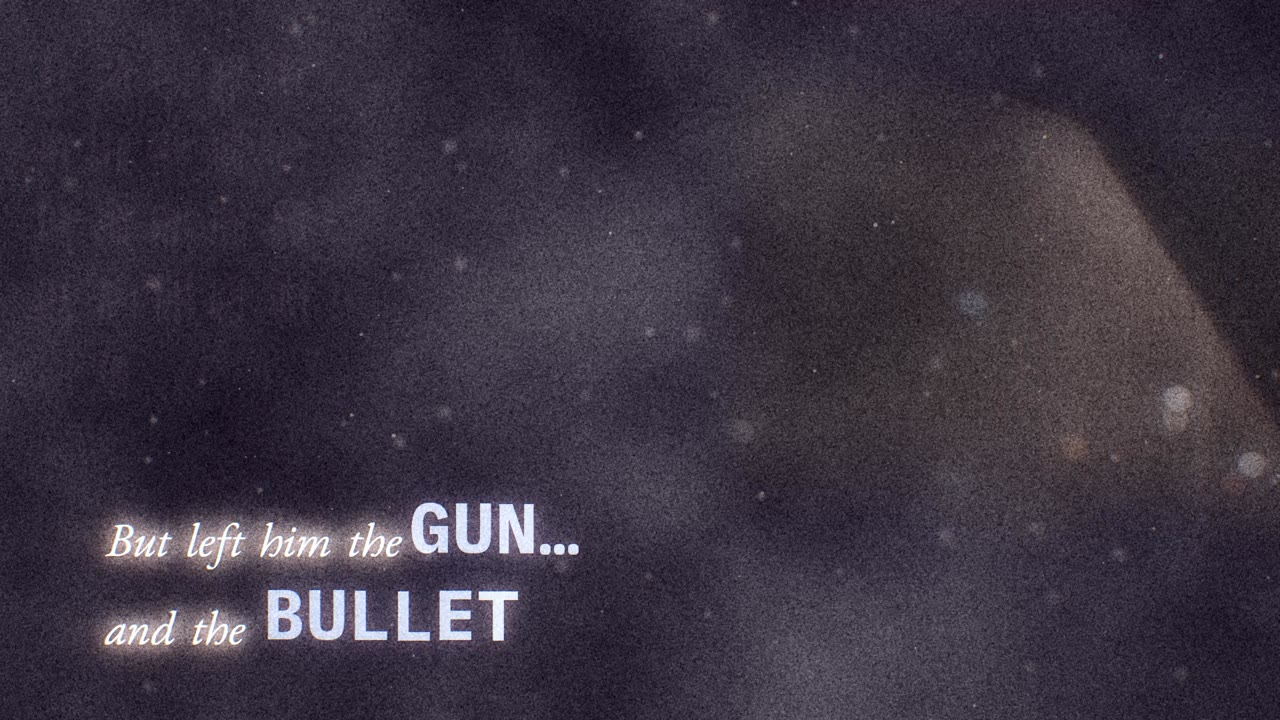
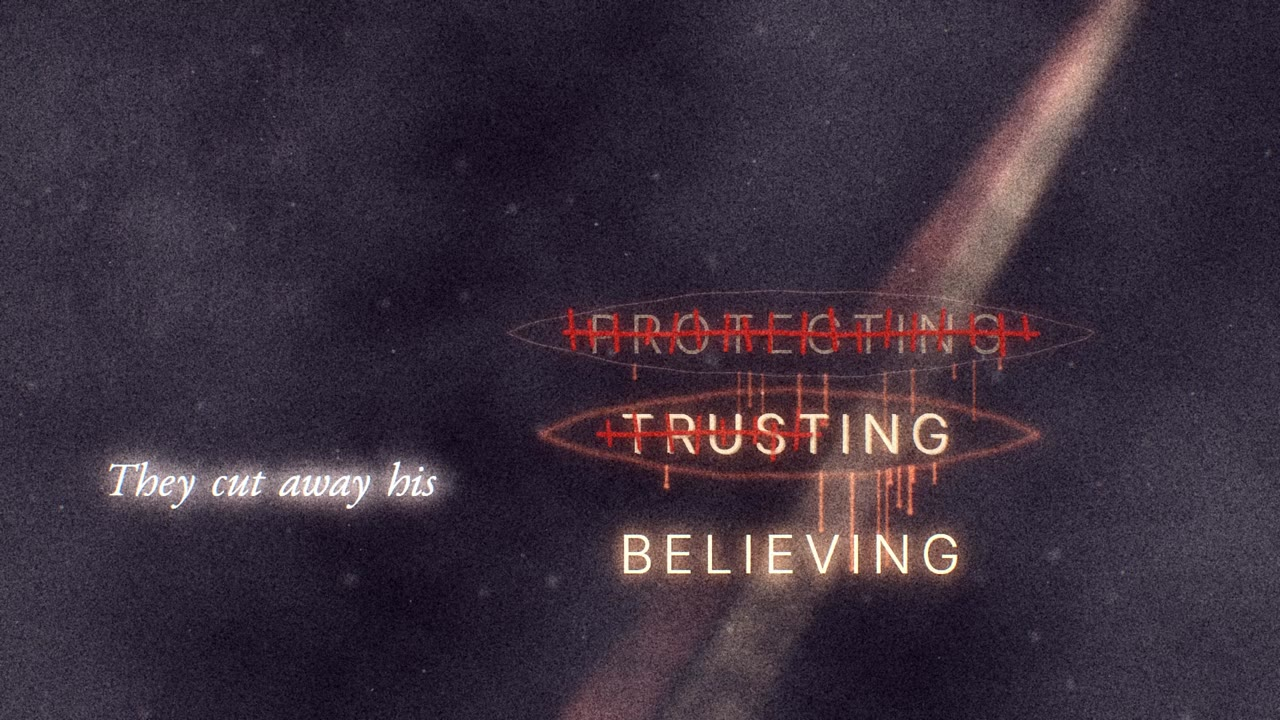
The Cutting: full render with the sewn-shut virtues and the still bullet on the storyboard
Claude-Session: https://claude.ai/code/session_013aPae8dR11r7xw8o95d9Yi

diff --git a/storyboard/index.html b/storyboard/index.html
@@ -144,21 +144,13 @@ ol.steps li::marker { font: 600 0.85rem var(--mono); color: var(--ink-2); }
   <section aria-labelledby="h-built">
     <div class="col"><span class="eyebrow">Built so far</span><h2 id="h-built">The film</h2></div>
     <div class="frames">
-<figure class="render" id="render-the_cutting_cuts">
-  <video controls playsinline preload="metadata" poster="renders/the_cutting_cuts_poster.jpg" width="1280" height="720">
-    <source src="renders/the_cutting_cuts.mp4" type="video/mp4">
-  </video>
-  <figcaption><b>The Cutting (chunk)</b>
-    <span class="tc">6:03.0 → 6:16.2 · bars 105–108</span>
-    <span class="note">Revised cuts: surgical, then sewn shut. On each &#x27;cut&#x27; a scalpel traces a surgeon&#x27;s ellipse round his word in a few frames (the frame jolts), and the incision opens: his light wells out of it, redder, and runs down in drips. The word trembles while it is worked on. When she sings it, the wound is sewn shut over it in thick red thread that sits on top of the word: a strike runs through it and short, uneven vertical stitches cross it as the thread passes, a strikeout and sutures at once (the coats&#x27; strike from White Coats III). His light chokes down under the stitches, the welling stops, and the shaft drains. The three sewn-shut virtues stay until &#x27;But left him the gun&#x27;. <a href="renders/the_cutting_cuts_contact.jpg">Contact sheet</a></span></figcaption>
-</figure>
 <figure class="render" id="render-the_cutting">
   <video controls playsinline preload="metadata" poster="renders/the_cutting_poster.jpg" width="1280" height="720">
     <source src="renders/the_cutting.mp4" type="video/mp4">
   </video>
   <figcaption><b>The Cutting</b>
     <span class="tc">6:04.6 → 6:36.6 · bars 106–115</span>
-    <span class="note">What they did to each of them, in her words. Out of the coats&#x27; white his three shafts pour back, with PROTECTING, TRUSTING and BELIEVING still lit where he set them in Spoken I (a memory of his offer). Each &#x27;cut&#x27; slices a shaft at its word: below the slice the light falls away at once and the frame jolts, as on the stabs; above it the light withdraws into its source, and the word flares as she sings it and goes out to ash. He is left the GUN and the BULLET in the coats&#x27; type, and the bullet falls again, top-centre to bottom-centre at the same speed as before, which carries it out of frame exactly on &#x27;But left HER the years&#x27;. What they take from her is cut out of her lines, leaving the gaps: &#x27;They took her ___ to hug / ___ to run / Her ___ to see and ___ to hear&#x27;. Taking her eyes takes the focus; taking her ears stills the world (the drift, the fog, the grain). What they leave her is the years: her tally, sharp through the blur, brightening on each &#x27;years&#x27;. &#x27;Alone&#x27; in her serif with &#x27;with time... with time...&#x27; overstruck in the coats&#x27; type: their phrase is now her condition. Her agains begin to double (the deaf ghosts of Refrain II). Then OF HIM... in his light on his side, and her... on hers. The clip starts 3.6 s early, in White Coats III&#x27;s white, to show the hand-off. <a href="renders/the_cutting_contact.jpg">Contact sheet</a></span></figcaption>
+    <span class="note">What they did to each of them, in her words. Out of the coats&#x27; white his three shafts pour back, with PROTECTING, TRUSTING and BELIEVING still lit where he set them in Spoken I (a memory of his offer). Each &#x27;cut&#x27; is surgery: a scalpel traces an excision round his word (the frame jolts, as on the stabs), and his light wells out of the incision, redder, and runs down in drips while the word trembles. When she sings the word the wound is sewn shut over it in thick red thread: a strike through it, short uneven stitches across it, a strikeout and sutures at once. His light chokes under them and the shaft drains; the three sewn-shut virtues stay until &#x27;But left him the gun&#x27;. GUN and BULLET in the coats&#x27; type; the bullet doesn&#x27;t fall this time: it surfaces where his light used to shine, catches the last of it, and is gone. What they take from her is cut out of her lines, leaving the gaps: &#x27;They took her ___ to hug / ___ to run / Her ___ to see and ___ to hear&#x27;. Taking her eyes takes the focus; taking her ears stills the world (the drift, the fog, the grain). What they leave her is the years: her tally, sharp through the blur, brightening on each &#x27;years&#x27;. &#x27;Alone&#x27; in her serif with &#x27;with time... with time...&#x27; overstruck in the coats&#x27; type: their phrase is now her condition. Her agains begin to double (the deaf ghosts of Refrain II). Then OF HIM... in his light on his side, and her... on hers. The clip starts 3.6 s early, in White Coats III&#x27;s white, to show the hand-off. <a href="renders/the_cutting_contact.jpg">Contact sheet</a></span></figcaption>
 </figure>
 <figure class="render" id="render-white_coats_iii">
   <video controls playsinline preload="metadata" poster="renders/white_coats_iii_poster.jpg" width="1280" height="720">
@@ -636,9 +628,9 @@ ol.steps li::marker { font: 600 0.85rem var(--mono); color: var(--ink-2); }
       <h3>The Cutting</h3><a class="fref" href="#frame-C">Style frame C</a></header>
     <p class="lyr">They cut away his protecting.</p>
     <dl>
-      <dt>Picture</dt><dd>Out of the coats&#x27; white, his three shafts return with PROTECTING, TRUSTING, BELIEVING still lit inside them where he set them in Spoken I. Each “cut” slices a shaft at its word: below, the light falls away at once (the frame jolts, as on the stabs); above, it withdraws into its source, and the word flares as she sings it and goes out to ash. GUN and BULLET in the coats&#x27; type, and the bullet falls again at the speed it fell before, out of frame on “But left her the years”. What they take from her is cut out of her lines, leaving the gaps; taking her eyes takes the focus, taking her ears stills the world. The years stay: her tally, the one sharp thing, brighter on each “years”.</dd>
+      <dt>Picture</dt><dd>Out of the coats&#x27; white, his three shafts return with PROTECTING, TRUSTING, BELIEVING still lit inside them where he set them in Spoken I. Each “cut” is surgery: a scalpel traces an excision round his word, his light wells out of the incision, redder, and drips; when she sings the word the wound is sewn shut over it in thick red thread (a strikeout and sutures at once) and the shaft drains. GUN and BULLET in the coats&#x27; type; the bullet surfaces where his light used to shine, glows for a moment and is gone. What they take from her is cut out of her lines, leaving the gaps; taking her eyes takes the focus, taking her ears stills the world. The years stay: her tally, the one sharp thing, brighter on each “years”.</dd>
       <dt>Type</dt><dd>Her voice as light; his virtues in his type; GUN / BULLET and “with time... with time...” in the coats&#x27; type (overstruck, their phrase now her condition); OF HIM in his light on the right, and her... on the left.</dd>
-      <dt>Sync</dt><dd>The slices on the “cut” vowels; each virtue goes out as it is sung; the taken words vanish just after they are sung; her agains begin to double into Refrain II.</dd>
+      <dt>Sync</dt><dd>Incisions on the “cut” vowels; each virtue sewn shut as it is sung; the bullet on “bullet”; the taken words vanish just after they are sung; her agains begin to double into Refrain II.</dd>
     </dl>
   </div>
 </article>
